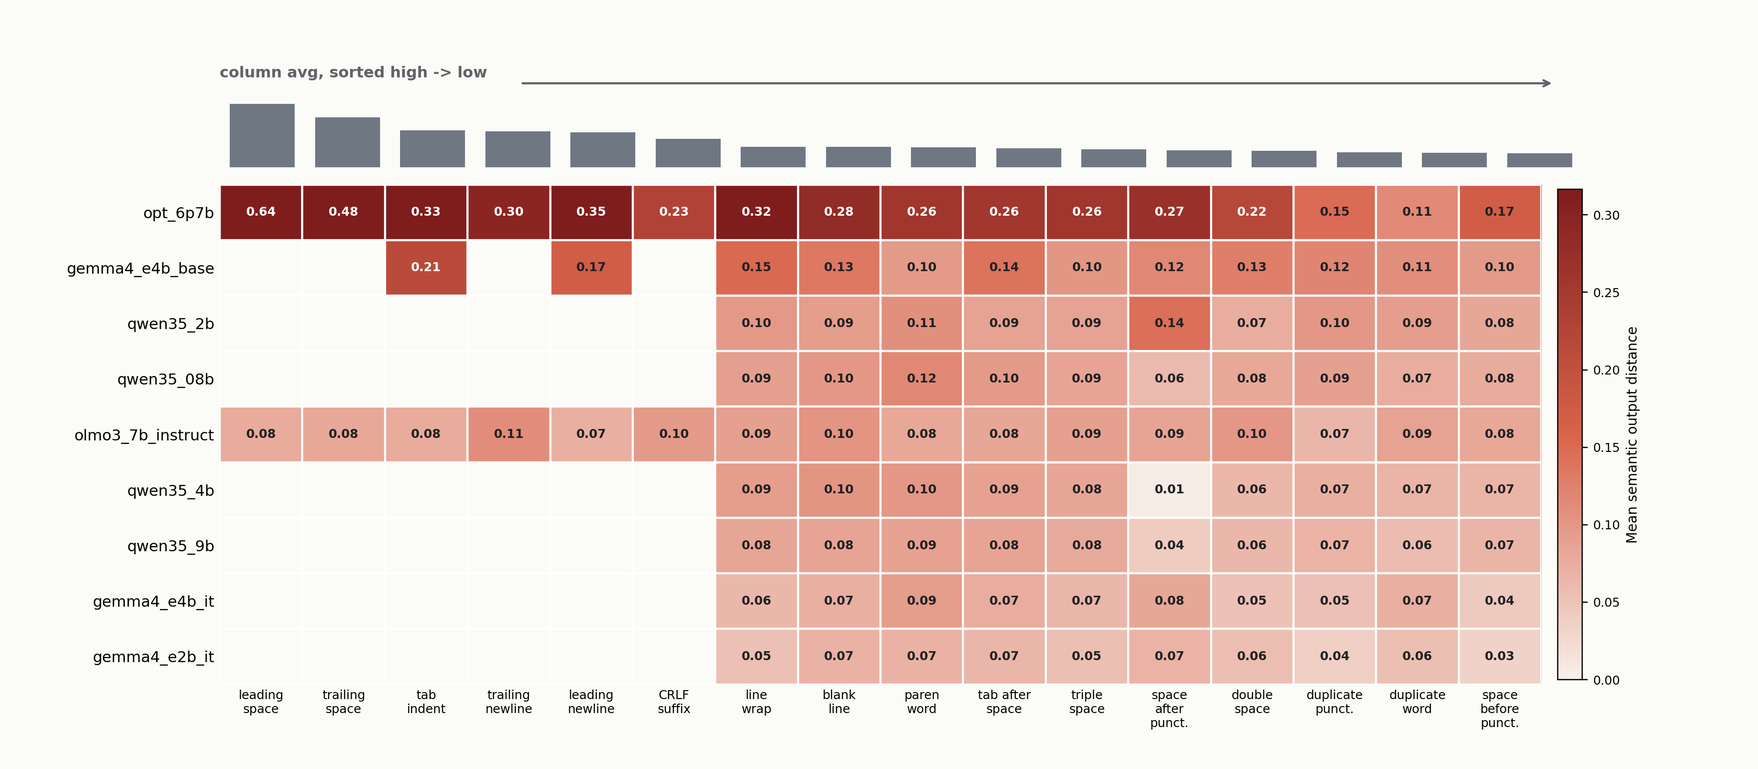
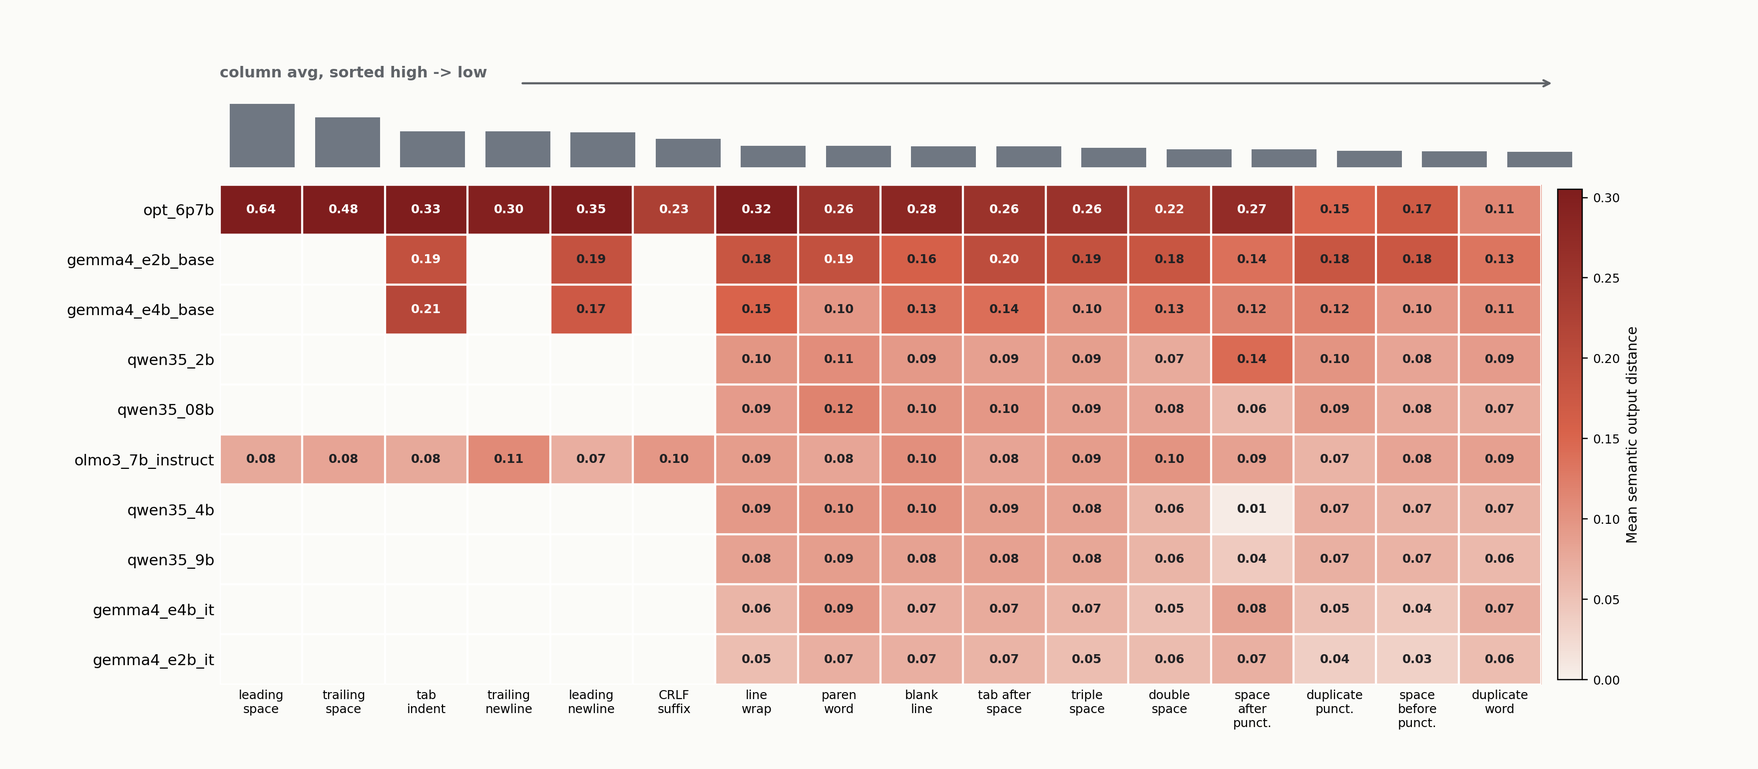
Process completed Gemma stability waves

diff --git a/scripts/activation_patch_branch.py b/scripts/activation_patch_branch.py
@@ -37,7 +37,13 @@ def get_path(root: Any, dotted: str) -> Any | None:
 
 
 def find_blocks(model: Any) -> tuple[str, Any]:
-    for path in ["model.layers", "model.model.layers", "transformer.h", "gpt_neox.layers"]:
+    for path in [
+        "model.language_model.layers",
+        "model.layers",
+        "model.model.layers",
+        "transformer.h",
+        "gpt_neox.layers",
+    ]:
         blocks = get_path(model, path)
         if blocks is not None:
             return path, blocks

diff --git a/docs/results_digest.md b/docs/results_digest.md
@@ -1,7 +1,7 @@
 # Results Digest
 
-Last updated: 2026-04-30 after E9 logit-token processing, token-certified v3
-partial processing, and the trajectory-branching research pivot.
+Last updated: 2026-04-30 after complete E06 logit-token processing, E09
+trajectory artifact rebuild, and Gemma E2B base token-micro repair.
 
 This is the compact, talk-oriented current-state readout. The talk is a
 chaos/dynamical-systems teaching talk first; the stability probe is supporting
@@ -75,24 +75,22 @@ The completed logit probe records full-vocab KL/JS divergence, top-token
 margins, winner-rank shifts, and teacher-forced logit divergence along the same
 continuation.
 
-The first higher-N E9 logit-token readout now has five completed models:
-Qwen3.5 0.8B/2B/4B/9B thinking-off and Gemma4 E2B instruct, each with 525
+The higher-N E9 logit-token readout now has eight completed models: Qwen3.5
+0.8B/2B/4B/9B thinking-off plus Gemma4 E2B/E4B instruct/base, each with 525
 token-certified pairs. Identical controls are effectively zero. Non-control
-semantic means are `0.0873` for Qwen0.8B, `0.0872` for Qwen2B, `0.0827` for
-Qwen4B, `0.0787` for Qwen9, and `0.0589` for Gemma E2B IT. Prompt-end JS is
-lowest for Qwen2B/Qwen9/Gemma (`0.00606`, `0.00630`, `0.00637`), higher for
-Qwen4B (`0.00741`), and highest for Qwen0.8B (`0.00877`). The internal
-confidence story differs: Qwen0.8B has the lowest mean margin (`2.09`), Qwen4B
-has the highest top-1 flip rate (`0.0533`), Qwen9 is lower-flip/wider-margin,
-and Gemma has the lowest flip rate (`0.0114`) with the widest margin (`10.32`).
-On common-prefix branch windows, the metric split matters: at the actual branch
-timestep, low margin and JS are strong classifiers (`0.953` and `0.891` AUROC,
-clustered by prompt pair). The older `branch_within_1` decision-window target
-includes the branch timestep, so its `0.766` JS AUROC should not be described as
-pure one-token-ahead warning. The stricter pre-branch-within-1 target is weaker
-but still above chance for centered logit L2 (`0.649`) and JS (`0.620`). On the
+semantic means are `0.0873`, `0.0872`, `0.0827`, and `0.0787` across the Qwen
+0.8B/2B/4B/9B ladder; `0.0589` and `0.0696` for Gemma E2B/E4B instruct; and
+`0.1505` and `0.1055` for Gemma E2B/E4B base. Prompt-end metrics show the same
+recipe split: Gemma base models have much higher JS/top-1 flip/effective
+branching factor than Gemma instruct models or the Qwen ladder. On common-
+prefix branch windows, the metric split matters: at the actual branch timestep,
+low margin and JS are strong classifiers (`0.947` and `0.883` AUROC, clustered
+by prompt pair). The older `branch_within_1` decision-window target includes
+the branch timestep, so its `0.766` JS AUROC should not be described as pure
+one-token-ahead warning. The stricter pre-branch-within-1 target is weaker but
+still above chance for centered logit L2 (`0.661`) and JS (`0.618`). On the
 longer shared-prefix subset (`branch_t >= 5`), strict pre-branch-within-1 drops
-to centered L2 `0.568` and JS `0.558`, while at-branch remains strong. This
+to centered L2 `0.581` and JS `0.558`, while at-branch remains strong. This
 supports the decision-boundary version of the story more than a generic
 "formatting changes outputs" version, but genuine pre-branch lead-time warning
 is not yet a strong result.
@@ -102,9 +100,12 @@ story. On the 500 shared non-control Qwen ladder cases, branch timing is only
 monotonic earlier-with-size in `10.4%` of cases and monotonic later-with-size in
 another `10.4%`. Pairwise timing deltas also change sign: Qwen2B branches later
 than Qwen0.8B on average, while Qwen9 branches earlier than Qwen2B and Qwen4B
-on average. The stronger claim is mechanism typing: tiny token-certified edits
-push different models across different local branch boundaries, and "bigger"
-does not determine where those boundaries sit.
+on average. Gemma adds a recipe contrast: base models branch earlier and more
+immediately than their instruction-tuned siblings, with immediate visible
+branch rates of `18.6%` for E2B base and `31.6%` for E4B base versus `0.6%`
+and `11.0%` for E2B/E4B instruct. The stronger claim is mechanism typing: tiny
+token-certified edits push different models across different local branch
+boundaries, and "bigger" does not determine where those boundaries sit.
 
 The expanded scaffold-long logit pass adds the most promising mechanistic
 thread so far. Across the 20-model 512-token panel, prompt-end top-1 probability
@@ -240,10 +241,12 @@ The earlier micro sweep found that many raw character edits never survived
 tokenization or chat-template formatting as real prompt-token deltas. The v3
 reinforcement wave now uses model-specific certified prompt files: 25 identical
 controls plus 500 effective prompt-token perturbations per selected model. As
-of the 2026-04-30 19:35 -0300 processing pass, processed v3 means are:
+of the 2026-04-30 23:23 -0300 processing pass, processed v3 means are:
 
 | Model | Effective pairs | Mean 512-token semantic distance | P90 |
 | --- | ---: | ---: | ---: |
+| OPT 6.7B | 500 | 0.289 | 0.515 |
+| Gemma4 E2B base | 500 | 0.179 | 0.351 |
 | Gemma4 E4B base | 500 | 0.129 | 0.303 |
 | Qwen3.5 0.8B thinking-off | 500 | 0.093 | 0.165 |
 | Qwen3.5 2B thinking-off | 500 | 0.091 | 0.165 |
@@ -253,16 +256,14 @@ of the 2026-04-30 19:35 -0300 processing pass, processed v3 means are:
 | Gemma4 E4B instruct | 500 | 0.068 | 0.165 |
 | Gemma4 E2B instruct | 500 | 0.059 | 0.112 |
 
-This is still not the final v3 panel: Gemma4 E2B base `-003` completed but
-still produced partial raw rows with no `summary.csv`; repair job `-004` is in
-progress. OLMo3 `-004` was recoverable from raw generations, but it has only
-`152` effective non-control rows after CUDA failures near the end, so treat it
-as a partial sanity check rather than a full panel point. The safe claim is
-already useful: token-aware filtering is not a pedantic detail; it changes
-which examples are admissible evidence, and the base-vs-instruct Gemma split
-remains a high-signal recipe contrast. The token-certified Qwen ladder is
-ordered 0.8B/2B/4B/9B by decreasing mean sensitivity, but 0.8B and 2B are not
-cleanly separated by paired permutation.
+OLMo3 `-004` was recoverable from raw generations, but it has only `152`
+effective non-control rows after CUDA failures near the end, so treat it as a
+partial sanity check rather than a full panel point. The safe claim is already
+useful: token-aware filtering is not a pedantic detail; it changes which
+examples are admissible evidence, and the base-vs-instruct Gemma split remains
+a high-signal recipe contrast. The token-certified Qwen ladder is ordered
+0.8B/2B/4B/9B by decreasing mean sensitivity, but 0.8B and 2B are not cleanly
+separated by paired permutation.
 
 The next important contrast is training era/post-training recipe, but it should
 not be reduced to either "modern equals stable" or "older equals stable." A

diff --git a/docs/experiment_index.md b/docs/experiment_index.md
@@ -11,9 +11,9 @@ details in `experiments/E##_*/README.md` and generated artifacts under `runs/`.
 | E02 | Broad model panel | Are stability signatures model/recipe dependent beyond Qwen? | Supporting result | `runs/rankings/wave2_13model_bootstrap`, `runs/rankings/final_21model_readout` | Clusters exist, but exact rankings are fragile; prompt pair is the statistical unit. | Prefer recipe/family matched comparisons over broad leaderboard expansion. |
 | E03 | Scaffold confound | Are stable-looking reasoning models preserving content or deterministic scaffolds? | Active caveat | `runs/inspection/generation_prefixes_final21.csv`, `runs/rankings/scaffold_analysis`, `runs/rankings/scaffold_long_wave` | Some stability is scaffold stability; reasoning-on streams need separate treatment. | Keep scaffold/content boundary caveats explicit. |
 | E04 | Quantization/collapse controls | Can a model look stable because it collapsed onto a narrower output manifold? | Supporting caveat | `runs/quantization_fidelity/qwen_quantized_vs_bf16_small_summary.csv` | 4-bit Qwen0.8B can look more stable while drifting from BF16. | Pair stability metrics with fidelity checks for compression/model-editing claims. |
-| E05 | Token-certified micro perturbations | Which tiny edits survive tokenization and move deterministic outputs? | Active measurement hygiene | `configs/prompt_pairs_token_certified/`, `runs/rankings/token_micro_v2`, `runs/rankings/token_micro_v3`, `experiments/E05_token_cert_micro/` | Many raw character edits normalize away; token-certified edits still produce real branches; OPT 6.7B is the fragile v3 baseline (`0.289` mean); OLMo3 repair is partial (`152` effective rows). | Use prompt-token-effective pairs only for tiny-edit claims. |
-| E06 | Logit boundary probe | Do prompt-end and teacher-forced logit metrics explain later divergence? | Active mechanism wave | `configs/sagemaker_queue_logit_token_cert_v1.json`, `runs/rankings/logit_token_cert_v1`, `experiments/E06_logit_boundary/` | Processed Qwen0.8B/2B/4B/9B and Gemma E2B IT: Qwen4B slots between Qwen2B and Qwen9 on semantic mean but has higher prompt-end JS/flip rate than Qwen2B. | Process Gemma base/E4B logit jobs when they land. |
-| E07 | Mechanistic branch patching | Can residual activation patching move tiny-edit branch tokens? | Active SageMaker causal wave | `runs/mechinterp_patch`, `runs/mechinterp_patch_aligned`, `configs/activation_patch_targets_v1.json`, `configs/activation_patch_targets_v2.json`, `runs/rankings/activation_patch_v1`, `experiments/E07_mech_branch_patching/` | Qwen2B/4B/9B aligned patch jobs processed: 17/18 cases have finite rescue, 16/18 are replayable full-or-overshoot rescues, and best positions shift from prompt-LCP in 2B/4B toward final context in 9B. | Process Qwen0.8B/Gemma E2B-IT v2 jobs when they land; then compare by model family and mechanism type. |
+| E05 | Token-certified micro perturbations | Which tiny edits survive tokenization and move deterministic outputs? | Active measurement hygiene | `configs/prompt_pairs_token_certified/`, `runs/rankings/token_micro_v2`, `runs/rankings/token_micro_v3`, `experiments/E05_token_cert_micro/` | Many raw character edits normalize away; token-certified edits still produce real branches; OPT 6.7B remains the fragile v3 baseline (`0.289` mean), with Gemma E2B base now second (`0.179`) and Gemma instruct models much lower (`0.059`-`0.068`). | Use prompt-token-effective pairs only for tiny-edit claims. |
+| E06 | Logit boundary probe | Do prompt-end and teacher-forced logit metrics explain later divergence? | Processed mechanism wave | `configs/sagemaker_queue_logit_token_cert_v1.json`, `runs/rankings/logit_token_cert_v1`, `experiments/E06_logit_boundary/` | Complete 8-model panel is processed. Gemma base models have much higher prompt-end JS/top-1 flip/effective branching factor than Gemma instruct or Qwen; Qwen size is not monotonic. | Use as E09/E07 input; do not expand panel unless testing a specific mechanism. |
+| E07 | Mechanistic branch patching | Can residual activation patching move tiny-edit branch tokens? | Active SageMaker causal wave | `runs/mechinterp_patch`, `runs/mechinterp_patch_aligned`, `configs/activation_patch_targets_v1.json`, `configs/activation_patch_targets_v2.json`, `runs/rankings/activation_patch_v1`, `experiments/E07_mech_branch_patching/` | Qwen2B/4B/9B v1: 17/18 finite rescue, 16/18 replayable full-or-overshoot. Qwen0.8B v2: 6/6 replayable full-or-overshoot. Gemma E2B-IT v2 initial job failed on block discovery; retry `-003` is running after Gemma4 block-path support. | Process Gemma E2B-IT retry, then compare by family and mechanism type. |
 | E08 | SAE feature pilot | Do SAE feature activations at causal branch positions distinguish clean vs perturbed states? | Feature-ID pilot | `runs/mechinterp_sae`, `experiments/E08_sae_feature_pilot/` | Qwen-Scope feature overlap/deltas match patching positions, but features are not human-labeled. | Add labels/steering only if the feature source supports it. |
-| E09 | Trajectory event mining | Are output differences concentrated around localized visible/silent branch events? | Active analysis | `runs/trajectory_events/logit_token_cert_v1`, `runs/trajectory_artifacts/logit_token_cert_v1`, `experiments/E09_trajectory_events/` | At-branch AUROC is strong (`0.953` low margin, `0.891` JS); strict pre-branch-within-1 is modest and weakens on long-prefix cases (`0.568` centered L2, `0.558` JS); Qwen branch timing is not monotonic with size. | Rerun after Gemma base/E4B logit jobs land. |
+| E09 | Trajectory event mining | Are output differences concentrated around localized visible/silent branch events? | Active analysis | `runs/trajectory_events/logit_token_cert_v1`, `runs/trajectory_artifacts/logit_token_cert_v1`, `experiments/E09_trajectory_events/` | Complete 8-model panel: at-branch AUROC is strong (`0.947` low margin, `0.883` JS); strict pre-branch-within-1 is modest (`0.661` centered L2, `0.618` JS) and weakens on long-prefix cases (`0.581` centered L2, `0.558` JS). Gemma base models branch earlier/more immediately than Gemma instruct. | Use rebuilt casebook/selection for figures and next E07 targets. |
 | E10 | Silent divergence | Do logits/hidden states separate along a shared generated prefix before visible branching? | Active pilot | `runs/rankings/silent_divergence_pilot_v1`, `runs/rankings/silent_divergence_local_qwen_ladder_meta_20260430`, `runs/rankings/e10_backend_comparison_20260430`, `experiments/E10_silent_divergence/` | Qwen2B/4B/9B CUDA metadata exists. Backend/dtype can move branch timing materially (`4.25`/`8.80` mean absolute branch-t delta for Qwen2B/4B vs local). On the five selected CUDA cases, Qwen9 branches earlier on average, but this is a selected-case pilot. | Use E10 cases as intervention targets; do not generalize branch timing without a wider CUDA panel. |

diff --git a/docs/task_list.md b/docs/task_list.md
@@ -25,17 +25,12 @@ Operational board only. Keep historical narrative out of this file; use
 
 ## Live Operations
 
-Last checked: 2026-04-30 22:25 -0300.
+Last checked: 2026-04-30 23:23 -0300.
 
 ### SageMaker Running
 
-- Preprod `g6e.2xlarge`:
-  - `chaos-logit-token-cert-gemma-e2b-base-20260430-001`
-  - `chaos-token-micro-gemma-e2b-base-token-cert-20260430-004`
 - Marketing production `g5.2xlarge`:
-  - `chaos-activation-patch-gemma-e2b-it-20260430-002`
-- QA `g5.2xlarge`:
-  - `chaos-activation-patch-qwen08-20260430-002`
+  - `chaos-activation-patch-gemma-e2b-it-20260430-003`
 
 Recent stopped jobs are known superseded early attempts from earlier waves; no
 new failed/stopped jobs were found in the latest active queues.
@@ -66,7 +61,7 @@ new failed/stopped jobs were found in the latest active queues.
   - `branch_window_including_branch` includes the branch timestep.
   - `strict_pre_branch_warning` excludes the branch timestep.
   - Long-prefix subset (`branch_t >= 5`) weakens strict pre-branch-within-1 to
-    centered L2 `0.568`, JS `0.558`.
+    centered L2 `0.581`, JS `0.558`.
 - E10 backend comparison was built:
   - `runs/rankings/e10_backend_comparison_20260430/`
   - Qwen2B mean absolute branch-t delta local-vs-SageMaker: `4.25`.
@@ -79,18 +74,25 @@ new failed/stopped jobs were found in the latest active queues.
   - output: `runs/rankings/activation_patch_v2/`
   - Qwen0.8B: 6/6 finite, replayable, full-or-overshoot rescues.
   - Gemma E2B-IT: job completed but patch cases failed because
-    `activation_patch_branch.py` does not yet find Gemma's transformer block
-    list.
+    `activation_patch_branch.py` did not find Gemma's transformer block list.
+- E05 Gemma E2B base token-micro repair completed and was processed:
+  - output: `runs/rankings/token_micro_v3/`
+  - Gemma E2B base is now the second-most fragile v3 model:
+    mean `0.1786`, p90 `0.3505`.
+- E06 logit-token queue completed and was processed:
+  - output: `runs/rankings/logit_token_cert_v1/`
+  - All Qwen0.8B/2B/4B/9B and Gemma E2B/E4B instruct/base rows are now present.
+- E09 trajectory artifacts were rebuilt against the complete 8-model logit
+  panel:
+  - output: `runs/trajectory_events/logit_token_cert_v1/`
+  - artifact bundle: `runs/trajectory_artifacts/logit_token_cert_v1/`
+- Gemma E2B-IT E07 was relaunched after adding Gemma4 block-path support:
+  - `chaos-activation-patch-gemma-e2b-it-20260430-003`
 
 ### Pending Processing
 
-- Process when complete:
-  - Gemma E2B base logit-token job
-  - Gemma E2B base token-micro repair
-
-- Process now:
-  - Gemma E4B instruct/base logit-token jobs completed at 22:20/22:14 -0300.
-  - Add Gemma block-path support before retrying E07 on Gemma E2B-IT.
+- Process Gemma E2B-IT E07 retry when
+  `chaos-activation-patch-gemma-e2b-it-20260430-003` completes.
 
 ## Current Readouts
 
@@ -99,6 +101,7 @@ new failed/stopped jobs were found in the latest active queues.
 `runs/rankings/token_micro_v3/combined_model_summary.csv`
 
 - OPT 6.7B: `0.2894` mean over 500 effective rows.
+- Gemma4 E2B base: `0.1786` mean over 500 effective rows.
 - Gemma4 E4B base: `0.1286` mean over 500 effective rows.
 - Qwen0.8B/2B/4B/9B thinking-off: `0.0930`, `0.0912`, `0.0855`, `0.0786`.
 - Gemma4 E4B/E2B instruct: `0.0684`, `0.0591`.
@@ -108,12 +111,18 @@ new failed/stopped jobs were found in the latest active queues.
 
 `runs/trajectory_artifacts/logit_token_cert_v1/`
 
-- At-branch AUROC is strong: low-margin `0.953`, JS `0.891`.
-- Strict pre-branch-within-1 is weaker: centered L2 `0.649`, JS `0.620`.
+- Complete 8-model panel: Qwen0.8B/2B/4B/9B plus Gemma E2B/E4B
+  instruct/base.
+- At-branch AUROC is strong: low-margin `0.947`, JS `0.883`.
+- Strict pre-branch-within-1 is weaker: centered L2 `0.661`, JS `0.618`.
 - On long-prefix cases (`branch_t >= 5`), strict pre-branch-within-1 weakens to
-  centered L2 `0.568`, JS `0.558`.
+  centered L2 `0.581`, JS `0.558`.
 - Qwen ladder branch timing is not monotonic with size; only `10.4%` of shared
   cases are monotonic earlier-with-size and `10.4%` monotonic later-with-size.
+- Gemma base models branch earlier and more often immediately than their
+  instruction-tuned siblings: immediate visible branch rate is `18.6%` for
+  Gemma E2B base and `31.6%` for Gemma E4B base, versus `0.6%`/`11.0%` for
+  E2B/E4B instruct.
 
 ### E10 Silent Divergence
 
@@ -158,15 +167,13 @@ new failed/stopped jobs were found in the latest active queues.
 
 ## Next Actions
 
-1. Process Qwen0.8B/Gemma E2B-IT activation-patching jobs when they land.
-2. Process Gemma E4B logit-token completions, then Gemma E2B base logit and
-   token-micro repair when they land.
+1. Process Gemma E2B-IT E07 retry when it lands.
+2. Compare E07 v1/v2 by mechanism type and model family before launching the
+   next causal wave.
 3. Build the paper-grade figures:
    - single-case trajectory anatomy,
    - Qwen branch-timing parallel coordinates,
    - at-branch vs strict pre-branch AUROC forest plot.
-4. Compare E07 v1/v2 by mechanism type and model family before launching the
-   next causal wave.
 
 ## Useful Commands
 

diff --git a/experiments/E09_trajectory_events/README.md b/experiments/E09_trajectory_events/README.md
@@ -40,7 +40,7 @@ Inspection:
 
 Status:
 - Higher-N logit-token readout currently includes Qwen3.5 0.8B, Qwen3.5 2B,
-  Qwen3.5 4B, Qwen3.5 9B, and Gemma4 E2B instruct.
+  Qwen3.5 4B, Qwen3.5 9B, Gemma4 E2B/E4B instruct, and Gemma4 E2B/E4B base.
 - Current output is `runs/trajectory_events/logit_token_cert_v1/`; bundled
   branch-prediction/casebook/comparison artifacts are under
   `runs/trajectory_artifacts/logit_token_cert_v1/`.
@@ -50,24 +50,28 @@ Status:
 - `pre_branch_within_N` is the strict warning target and excludes the branch
   timestep. In `branch_prediction_auc.csv`, this is labeled
   `strict_pre_branch_warning`.
-- At-branch classification is strong: low-margin AUROC `0.953`
-  (`0.951-0.956` clustered CI), JS AUROC `0.891` (`0.885-0.898`).
+- At-branch classification is strong: low-margin AUROC `0.947`
+  (`0.945-0.949` clustered CI), JS AUROC `0.883` (`0.879-0.888`).
 - Decision-window branch-within-1 is moderate: JS AUROC `0.766`
-  (`0.758-0.774`), low-margin AUROC `0.746` (`0.740-0.755`).
-- Pure pre-branch-within-1 warning is weaker: centered-logit-L2 AUROC `0.649`
-  (`0.638-0.661`), JS AUROC `0.620` (`0.605-0.634`).
+  (`0.759-0.773`), low-margin AUROC `0.747` (`0.741-0.751`).
+- Pure pre-branch-within-1 warning is weaker: centered-logit-L2 AUROC `0.661`
+  (`0.651-0.672`), JS AUROC `0.618` (`0.605-0.630`).
 - On the long-prefix subset (`branch_t >= 5`), pure pre-branch-within-1 warning
-  weakens further: centered-logit-L2 AUROC `0.568` (`0.554-0.579`), JS AUROC
-  `0.558` (`0.545-0.570`).
+  weakens further: centered-logit-L2 AUROC `0.581` (`0.570-0.589`), JS AUROC
+  `0.558` (`0.547-0.569`).
 - Effective branching factor is now tracked as a prior-art-driven diagnostic:
   use low BF plus high margin to identify concentrated basin switches, and high
   BF plus low margin to identify genuine local choice cliffs.
 - Paired Qwen ladder branch timing is not monotonic: only `10.4%` of shared
   non-control cases are monotonic earlier with size, and only `10.4%` are
   monotonic later with size.
+- Gemma base models branch earlier and more immediately than Gemma instruct:
+  immediate visible branch rates are `18.6%` for Gemma E2B base and `31.6%`
+  for Gemma E4B base, versus `0.6%` and `11.0%` for E2B/E4B instruct.
 
 Caveat: the warning threshold often fires at `t=0`, so use this as a branch
 risk detector, not yet a precise "silent lead time" claim. Do not call
 `branch_within_1` a one-token-ahead metric.
 
-Next: rerun after the newly launched Gemma base/E4B logit jobs finish.
+Next: use the rebuilt casebook and case-selection artifacts for paper figures
+and the next E07 intervention targets.

diff --git a/experiments/E07_mech_branch_patching/README.md b/experiments/E07_mech_branch_patching/README.md
@@ -20,11 +20,20 @@ Outputs:
 - patch CSVs and heatmaps under `runs/mechinterp_patch*/`
 - merged SageMaker readouts under `runs/rankings/activation_patch_v*/`
 
-Status: active causal-intervention wave. Qwen2B/4B/9B v1 SageMaker jobs landed
-and are processed in `runs/rankings/activation_patch_v1/`; Qwen0.8B and Gemma
-E2B-IT v2 jobs are launched from `configs/activation_patch_targets_v2.json`.
-Scripts remain in `scripts/` for now because later E08 scripts import them
-directly.
+Status: active causal-intervention wave.
+- Qwen2B/4B/9B v1 SageMaker jobs are processed in
+  `runs/rankings/activation_patch_v1/`: 17/18 finite rescue cases and 16/18
+  replayable full-or-overshoot rescues.
+- Qwen0.8B v2 is processed in `runs/rankings/activation_patch_v2/`: 6/6
+  finite, replayable, full-or-overshoot rescues.
+- Gemma E2B-IT v2 job `chaos-activation-patch-gemma-e2b-it-20260430-002`
+  completed but all cases failed because Gemma4 exposes decoder blocks at
+  `model.language_model.layers`.
+- `activation_patch_branch.py` now supports that Gemma4 block path, and retry
+  `chaos-activation-patch-gemma-e2b-it-20260430-003` is running on marketing
+  production `g5.2xlarge`.
+- Scripts remain in `scripts/` for now because later E08 scripts import them
+  directly.
 
 SageMaker status: `sagemaker_entry.py` now supports
 `CHAOS_ENTRYPOINT=activation_patch` for aligned residual-patching panels.

diff --git a/experiments/E06_logit_boundary/README.md b/experiments/E06_logit_boundary/README.md
@@ -16,5 +16,18 @@ Outputs:
 - raw SageMaker extracts under `runs/sagemaker_artifacts/`
 - merged logit summaries under `runs/rankings/logit_token_cert_v1/`
 
-Status: active mechanism wave. Leave launch queues in `configs/` for
+Current readout:
+- `runs/rankings/logit_token_cert_v1/semantic_vs_prompt_end_logits.csv`
+- Complete processed panel: Qwen0.8B/2B/4B/9B plus Gemma E2B/E4B
+  instruct/base.
+- Gemma base models are the prompt-end outliers:
+  - Gemma E2B base: JS `0.0618`, top-1 flip `0.164`, mean BF `15.6`.
+  - Gemma E4B base: JS `0.0452`, top-1 flip `0.303`, mean BF `16.0`.
+- Gemma instruct models are much more concentrated:
+  - E2B instruct: JS `0.00637`, top-1 flip `0.011`, mean BF `1.23`.
+  - E4B instruct: JS `0.01025`, top-1 flip `0.067`, mean BF `1.53`.
+- Qwen remains non-monotonic across size: Qwen9 has lower prompt-end top-1
+  flip than Qwen4, while Qwen0.8B has the widest effective support.
+
+Status: processed mechanism wave. Leave launch queues in `configs/` for
 compatibility with current supervisors and historical commands.

diff --git a/experiments/E05_token_cert_micro/README.md b/experiments/E05_token_cert_micro/README.md
@@ -19,5 +19,15 @@ Outputs:
 - derived rankings under `runs/rankings/token_micro_v3/`
 - token-certified prompt-pair configs under `configs/prompt_pairs_token_certified/`
 
+Current readout:
+- `runs/rankings/token_micro_v3/combined_model_summary.csv`
+- OPT 6.7B remains the fragile v3 baseline: mean `0.2894`, p90 `0.5146`.
+- Gemma E2B base repair is processed and is now second-most fragile:
+  mean `0.1786`, p90 `0.3505`.
+- Gemma base models are substantially more fragile than Gemma instruct models:
+  E2B base/instruct `0.1786` vs `0.0591`; E4B base/instruct `0.1286` vs
+  `0.0684`.
+- OLMo3 is still partial: `152` effective rows.
+
 Status: active measurement hygiene thread. Keep queue/config paths in
 `configs/` while jobs or docs reference them.
